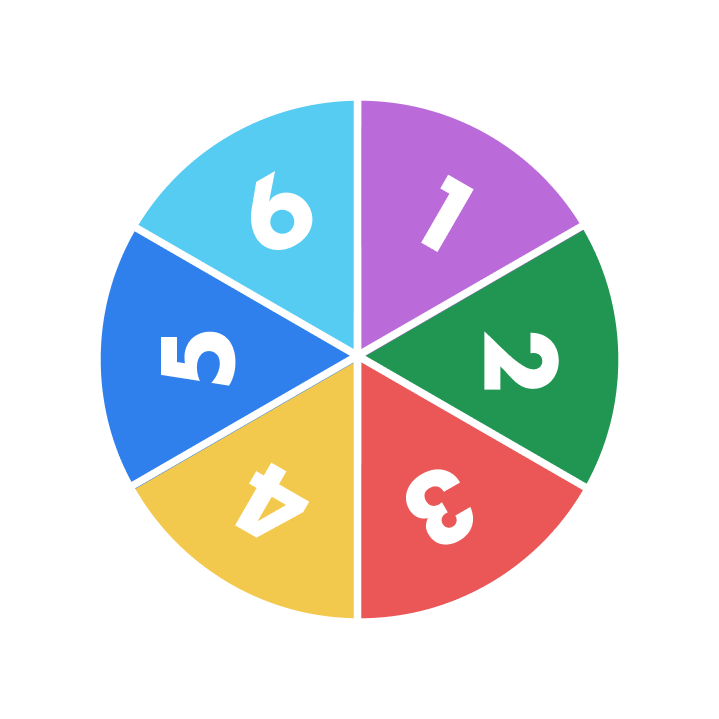
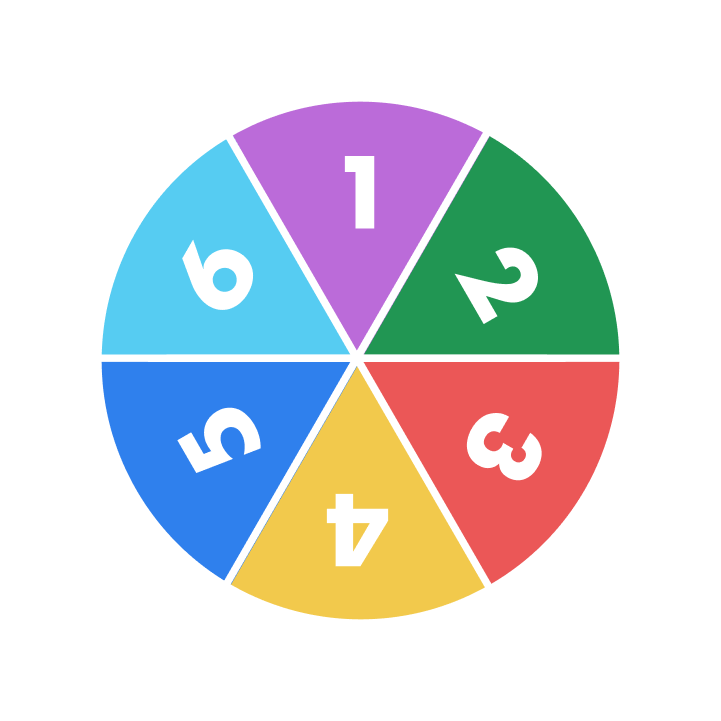
refactor: fix logic of roulette

Changed region(s): [[0.1224, 0.1224, 0.8873, 0.8873]]

diff --git a/assets/js/game.js b/assets/js/game.js
@@ -106,19 +106,28 @@ function spinRoulette() {
 
     const roll = Math.floor(Math.random() * 6) + 1; 
     
-    const angleMap = {
-        1: 0,
-        2: 60,
-        3: 120,
-        4: 180,
-        5: 240,
-        6: 300
+    const baseAngleMap = {
+        1: 60,   
+        2: 120,  
+        3: 180, 
+        4: 240,
+        5: 300,  
+        6: 0     
     };
 
-    const targetAngle = angleMap[roll];
+    const POINTER_ALIGNMENT_OFFSET = 215; 
 
-    const fullRotations = 6;
-    const newRotation = lastRotation + (fullRotations * 360) + targetAngle;
+    const targetAngle = (baseAngleMap[roll] + POINTER_ALIGNMENT_OFFSET) % 360;
+
+    if (targetAngle === undefined || isNaN(targetAngle)) {
+        console.error('Error: Target angle not defined or invalid for roll:', roll);
+        alert('Error spinning roulette. Please try again.');
+        spinRouletteButton.disabled = false;
+        return;
+    }
+
+    const fullRotations = 6; 
+    const newRotation = lastRotation + (fullRotations * 360) + (360 - targetAngle);
 
     rouletteWheel.style.transition = 'transform 4s cubic-bezier(0.2, 0.9, 0.3, 1)';
     rouletteWheel.style.transform = `rotate(${newRotation}deg)`;
@@ -127,19 +136,18 @@ function spinRoulette() {
         rouletteMessage.textContent = `Você tirou ${roll}!`;
 
         rouletteWheel.style.transition = 'none';
-        lastRotation = newRotation % 360;
-        rouletteWheel.style.transform = `rotate(${lastRotation}deg)`;
-
+        lastRotation = (360 - targetAngle) % 360; 
+        rouletteWheel.style.transform = `rotate(${lastRotation}deg)`; 
+        
         setTimeout(() => {
             rouletteWheel.style.transition = 'transform 4s cubic-bezier(0.2, 0.9, 0.3, 1)';
-        }, 50);
+        }, 50); 
 
         closeRoulettePopupButton.classList.remove('hidden');
-        roulettePopup.dataset.currentRoll = roll;
-        spinRouletteButton.disabled = false;
+        roulettePopup.dataset.currentRoll = roll; 
+        spinRouletteButton.disabled = false; 
     }, 4500);
 }
-
 function hideRoulettePopup() {
     roulettePopup.classList.add('hidden'); 
     rouletteMessage.textContent = 'Clique na roleta para girar!'; 
